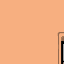
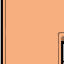
Add forgotten assets, account for when two 'clusters' are next to eachother (stable)

Changed region(s): [[0.0, 0.0, 0.0938, 1.0]]

diff --git a/resources/views/dashboard/index.blade.php b/resources/views/dashboard/index.blade.php
@@ -180,7 +180,7 @@
 							<div class="col-lg-3 col-sm-6">
 								<div class="thumbnail" style="margin-top: 5px;">
 									<div class="thumb">
-										<img id="selected-image" src="assets/images/objects/desk-1.png" alt="" class="no-antialias">
+										<img id="selected-image" src="assets/images/objects/desk.png" alt="" class="no-antialias">
 									</div>
 								</div>
 							</div>
@@ -438,6 +438,7 @@
 			        	var checkExemptions = updateConnectedObjects(objectPositionX, objectPositionY, [], null);
 
 			        	//Update everything in old location
+			        	//TODO: Update direct connections only!
 		        		updateConnectedObjects(previousPositionX, previousPositionY, [[objectPositionX, objectPositionY, []]], 0);
 
 		        		checkForClusters(checkExemptions);
@@ -503,12 +504,38 @@
 	    		var cluster = checkCluster(checkExemptions, i);
 
 		    	if (cluster.length > 3) {
-		        	specialConnections.push(updateCluster(cluster, 1, specialConnections));
+		        	specialConnections = updateCluster(cluster, 1, specialConnections);
 		        }
 			}
 
 	    	for(let i = 0; i < specialConnections.length; i++) {
 	    		var activeObjectId = getObjectByPosition(specialConnections[i][0], specialConnections[i][1]);
+				var activeObject = $('div[active-object-id=' + activeObjectId + ']');
+				var activeObjectBGImage = activeObject.css('background-image');
+
+	    		if(specialConnections[i][3] == true) {
+	    			var betweenClusterCheck = [];
+					if(getArrayInArray(specialConnections, [(specialConnections[i][0] - 1), (specialConnections[i][1] - 1)]) != -1) {
+						betweenClusterCheck.push('north_west');
+					}
+
+					if(getArrayInArray(specialConnections, [(specialConnections[i][0] + 1), (specialConnections[i][1] - 1)]) != -1) {
+						betweenClusterCheck.push('north_east');
+					}
+
+					if(getArrayInArray(specialConnections, [(specialConnections[i][0] - 1), (specialConnections[i][1] + 1)]) != -1) {
+						betweenClusterCheck.push('south_west');
+					}
+
+					if(getArrayInArray(specialConnections, [(specialConnections[i][0] + 1), (specialConnections[i][1] + 1)]) != -1) {
+						betweenClusterCheck.push('south_east');
+					}
+
+					if(betweenClusterCheck.length == 4)
+						betweenClusterCheck = ['special', 'north', 'east', 'south', 'west'];
+
+					specialConnections[i][3] = activeObjectBGImage.substr(0, activeObjectBGImage.indexOf('desk-connected-')) + 'desk-connected-' + betweenClusterCheck.join('-') + '.png")';
+	    		}
 	    		$('div[active-object-id=' + activeObjectId + ']').css('background-image', specialConnections[i][3]);
 	    	}
 	    }
@@ -556,7 +583,7 @@
 
 				var activeObject = $('div[active-object-id=' + activeObjectId + ']');
 				var activeObjectBGImage = activeObject.css('background-image');
-				var pushedIndex = getArrayInArray(specialConnections, [activeObjects[activeObjectId]['object_position_x'], activeObjects[activeObjectId]['object_position_y'], null]);
+				var pushedIndex = getArrayInArray(specialConnections, [activeObjects[activeObjectId]['object_position_x'], activeObjects[activeObjectId]['object_position_y']]);
 				var startPosition = activeObjectBGImage.indexOf('desk-connected-');
 				var endPosition = activeObjectBGImage.indexOf('.png');
 				var connectedObjects = activeObjectBGImage.substring(startPosition, endPosition);
@@ -600,11 +627,14 @@
 					}
 				}
 
-				var newImageLocation = connectedObjects.join('-') + '-special-' + specialConnections[pushedIndex][2].join('-') + '.png")';
+				if(specialConnections[pushedIndex][2].length < 4) {
+					var newImageLocation = connectedObjects.join('-') + '-special-' + specialConnections[pushedIndex][2].join('-') + '.png")';
 
-				activeObjectBGImage = activeObjectBGImage.substr(0, activeObjectBGImage.indexOf('desk-connected-')) + newImageLocation;
-
-				specialConnections[pushedIndex][3] = activeObjectBGImage;
+					activeObjectBGImage = activeObjectBGImage.substr(0, activeObjectBGImage.indexOf('desk-connected-')) + newImageLocation;
+					specialConnections[pushedIndex][3] = activeObjectBGImage;
+				} else {
+					specialConnections[pushedIndex][3] = true;
+				}
 			}
 			return specialConnections;
 	    }
